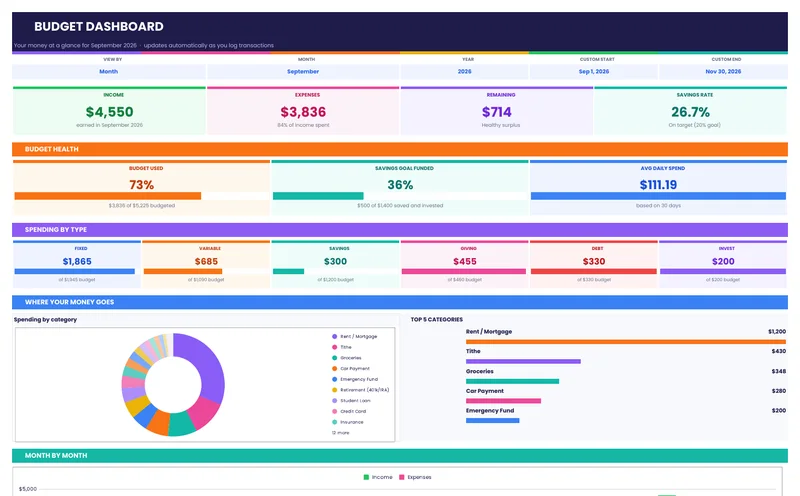
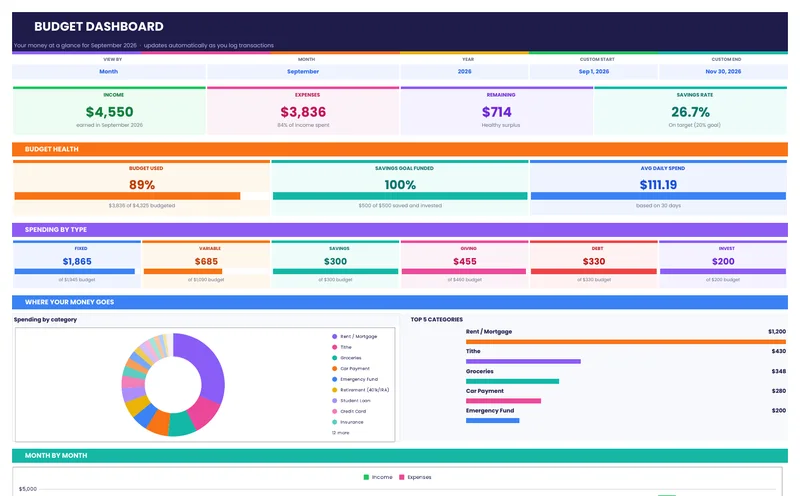
Refresh Complete Budget screenshots and set its color themes to 1
Claude-Session: https://claude.ai/code/session_01C2kAzzSvvJwqZVFUDqg7e4

diff --git a/public/sheets.html b/public/sheets.html
@@ -42,7 +42,7 @@
           <tr><td>Savings goals</td><td class="no">–</td><td class="no">–</td><td class="yes">✓</td></tr>
           <tr><td>Debt payoff planner</td><td class="no">–</td><td class="no">–</td><td class="yes">✓</td></tr>
           <tr><td>Net worth tracker</td><td class="no">–</td><td class="no">–</td><td class="yes">✓</td></tr>
-          <tr><td>Color themes</td><td>1</td><td>3</td><td>All</td></tr>
+          <tr><td>Color themes</td><td>1</td><td>1</td><td>All</td></tr>
           <tr><td><strong>Price</strong></td><td><strong>$7</strong></td><td><strong>$15</strong></td><td><strong>$24</strong></td></tr>
         </tbody>
       </table>
